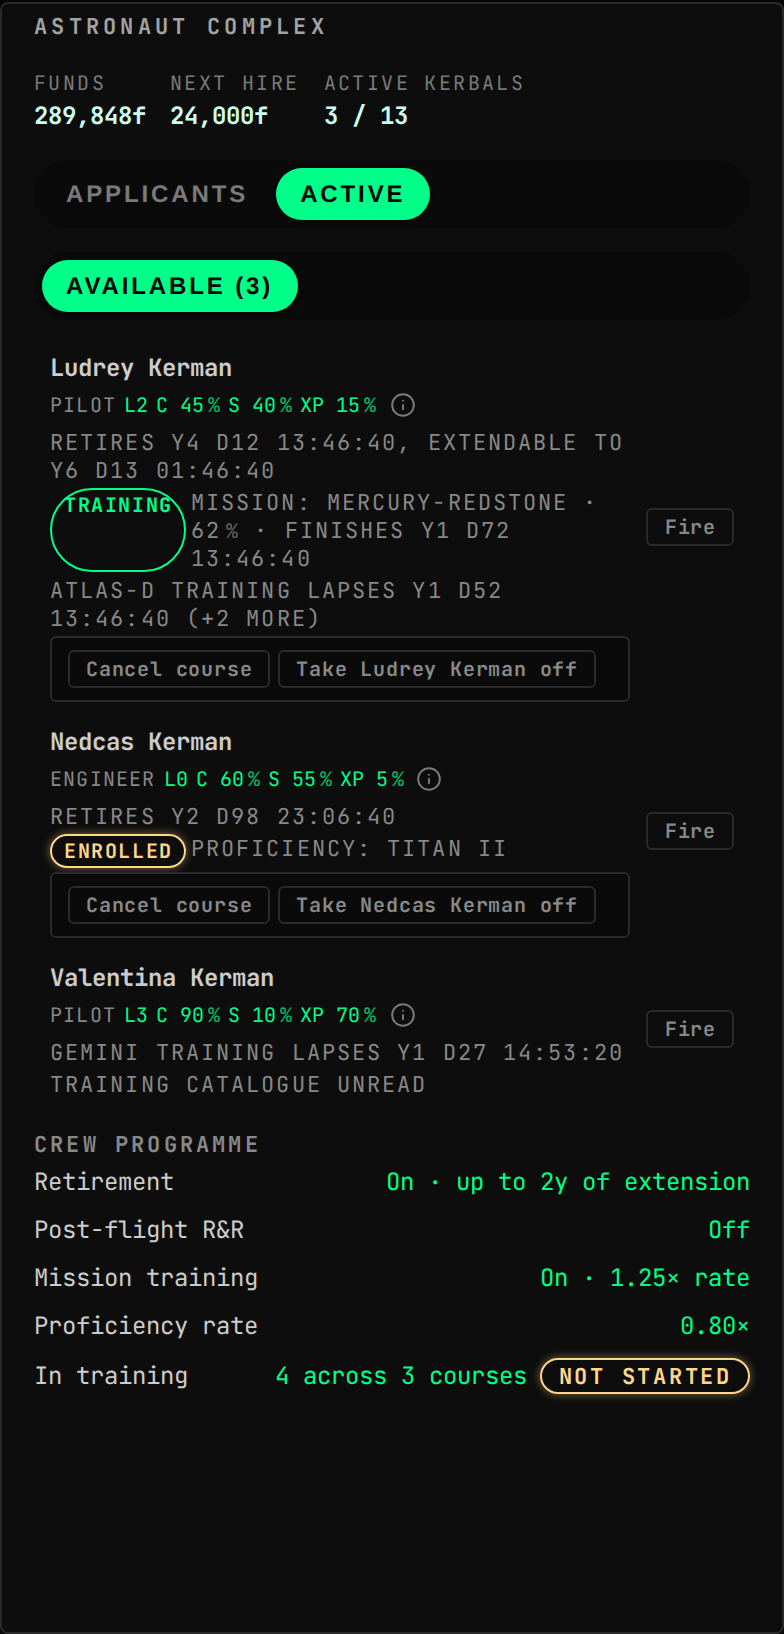
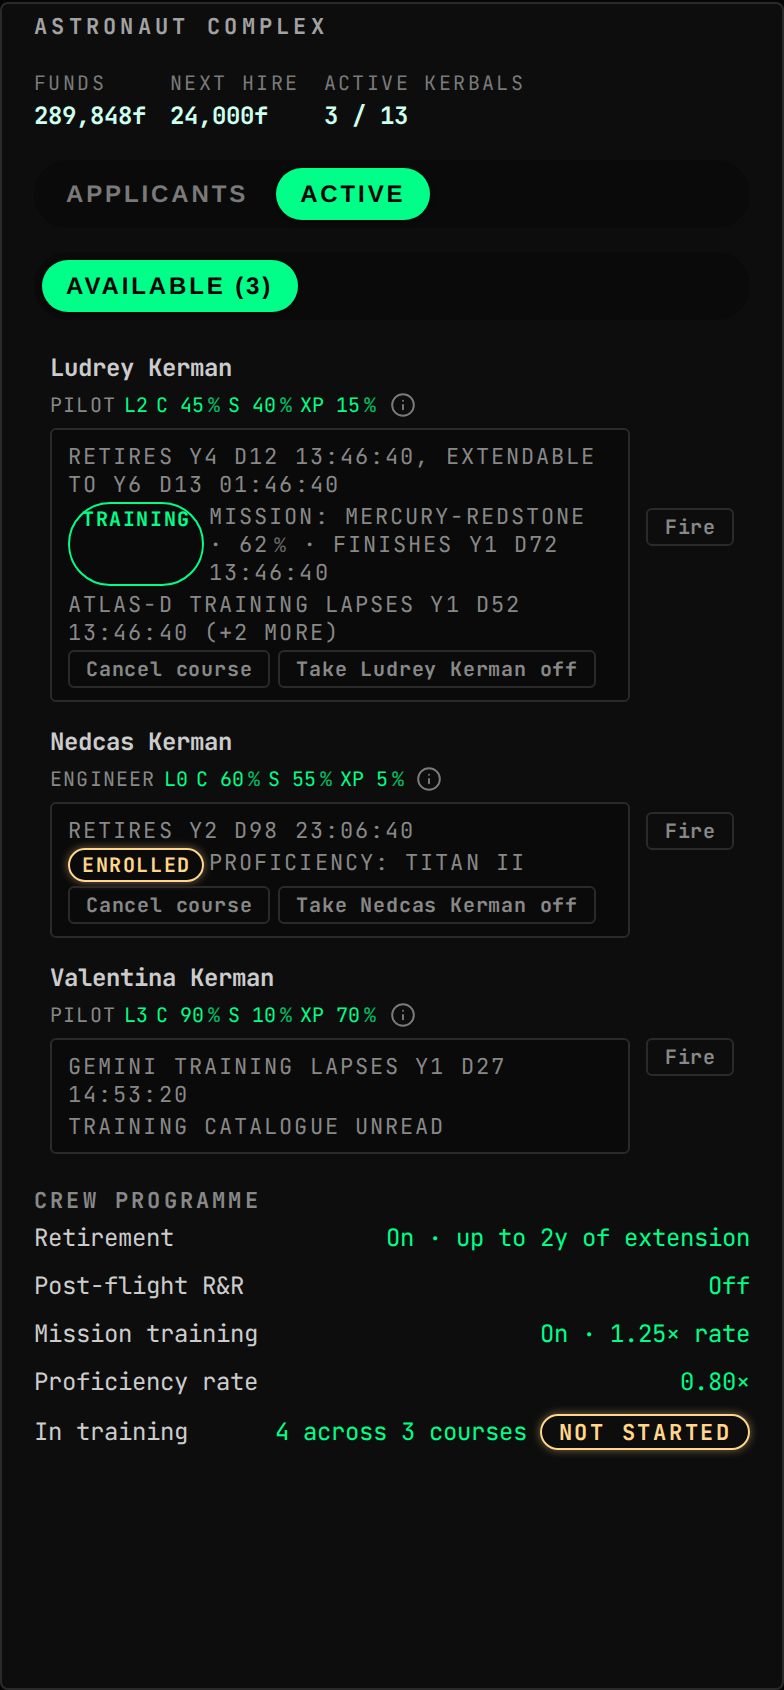
chore: regenerate Uplink pages

diff --git a/mod/GonogoRp1Uplink/client/README.md b/mod/GonogoRp1Uplink/client/README.md
@@ -219,7 +219,7 @@ Every craft RP-1 is integrating, holding or could start, across every launch com
 | `rp1-ksc-complexes` | `space-center-status.sections` | – |  | 9 |  |
 | `rp1-ksc-construction` | `space-center-status.sections` | – |  | 5 |  |
 | `rp1-launch-complex-status` | `launch-director.pad` | – |  | 2 |  |
-| `rp1-program-detail` | `strategies.screen-body` | `rp1.available`, `rp1.programs`, `rp1.programSlots`, `rp1.programFundingCurves`, `rp1.confidence`, `career.status` | only while `rp1` | 4 |  |
+| `rp1-program-detail` | `strategies.screen-body` | `rp1.available`, `rp1.programs`, `rp1.programSlots`, `rp1.programFundingCurves`, `rp1.confidence`, `career.status` | only while `rp1` | 5 |  |
 | `rp1-program-status` | `career-economy.sections` | – |  | 1 |  |
 | `rp1-research-queue` | `tech-tree.sections` | – |  | 1 |  |
 | `rp1-vehicle-assembly-build-cost` | `rp1-vehicle-assembly.sections` | – |  | 1 |  |
@@ -228,9 +228,9 @@ Every craft RP-1 is integrating, holding or could start, across every launch com
 | `rp1-vehicle-assembly-warehouse` | `rp1-vehicle-assembly.sections` | – |  | 1 |  |
 | `rp1-warp-targets` | `warp-control.stepper` | – |  | 2 |  |
 
-![Three kerbals' RP-1 schedules inside the roster rows the Astronaut Complex already draws: a retirement that can still be extended, a course being worked and a course nobody has started, and mission training lapsing before either finishes](docs/assets/crew-schedule-three-states--default.png)
+![Three kerbals' RP-1 schedules inside the roster rows the Astronaut Complex already draws, each on one card of its own: a retirement that can still be extended, a course being worked and a course nobody has started, and mission training lapsing before either finishes](docs/assets/crew-schedule-three-states--default.png)
 
-![The three training commands on the nauts they are about: a course two kerbals share, offering the cancel that ends it for both and the removal that takes one of them off, and an idle kerbal's picker resting on the first training the career has unlocked](docs/assets/crew-training-both-ways-out--default.png)
+![The three training commands on the nauts they are about, sharing one card with the dates they move: a course two kerbals share, offering the cancel that ends it for both and the removal that takes one of them off, and an idle kerbal's picker resting on the first training the career has unlocked](docs/assets/crew-training-both-ways-out--default.png)
 
 ![Both training refusals: an enrolment a naut's row cannot fill because the course seats two, and a removal RP-1 withholds on a course that would be left below its minimum, with cancelling the whole course still open](docs/assets/crew-training-refused--default.png)
 
@@ -250,7 +250,7 @@ Every craft RP-1 is integrating, holding or could start, across every launch com
 
 ![The new-complex form open at its defaults: every field priced, the tonnage limit stating the renovation range it fixes for life, and a 26,453f quote against a 400f balance that slows the build rather than refusing it](docs/assets/complexes-new--default.png)
 
-![A pad rename open on LP-1, showing the field holding the current name and the press refused as unchanged; the other pad still shows the closed one-button state this costs when nobody is renaming](docs/assets/complexes-rename--default.png)
+![A pad rename open on LP-1, showing the field holding the current name and the press refused as unchanged; LP-1B still shows the closed one-button state, now the same bordered control as the Dismantle beside it](docs/assets/complexes-rename--default.png)
 
 ![LC-1 rushing with its detail open, so the terms in force and the way out of rush mode are both on screen; LC-2 stays collapsed, which is what a complex costs to read when nobody is asking about it](docs/assets/complexes-rushing--default.png)
 
@@ -258,7 +258,7 @@ Every craft RP-1 is integrating, holding or could start, across every launch com
 
 ![RP-1 is present and has answered for nothing: every count reads as the null token and the missing centre is stated rather than left as a gap](docs/assets/personnel-unanswered--default.png)
 
-![Two space centres with their launch complexes nested under each, each named the way an operator names it rather than by the site id the save keys it on, and SLC-3 staffed by nobody while Vandenberg's whole pool sits idle](docs/assets/two-centres-unstaffed--default.png)
+![Two space centres with their launch complexes columnised under each, each named the way an operator names it rather than by the site id the save keys it on, and SLC-3 staffed by nobody while Vandenberg's whole pool sits idle](docs/assets/two-centres-unstaffed--default.png)
 
 ![A modification, which takes the complex out of service and idles its engineers: the one row whose detail line is a warning rather than a label](docs/assets/construction-complex-modify--default.png)
 
@@ -273,6 +273,8 @@ Every craft RP-1 is integrating, holding or could start, across every launch com
 ![Three pads across two RP-1 complexes: one holding a vehicle that has finished rolling out, one being reconditioned, and a stock runway RP-1 does not model](docs/assets/pad-holding-a-finished-vehicle--default.png)
 
 ![A rollout in progress: the pad row names the vehicle by joining the operation's vessel id against the warehouse, and counts down what is left of the haul](docs/assets/pad-rolling-out--default.png)
+
+![The Program catalogue open as a list of rows rather than a dropdown: each carries its own state, the running one sorts first, and the Program every reading below belongs to is named beside the section heading rather than under it](docs/assets/catalogue-picker--default.png)
 
 ![A Program that has closed: the deadline row becomes the completion date, the funding is paid out in full, and nothing remains to plan against](docs/assets/completed-program--default.png)
 
